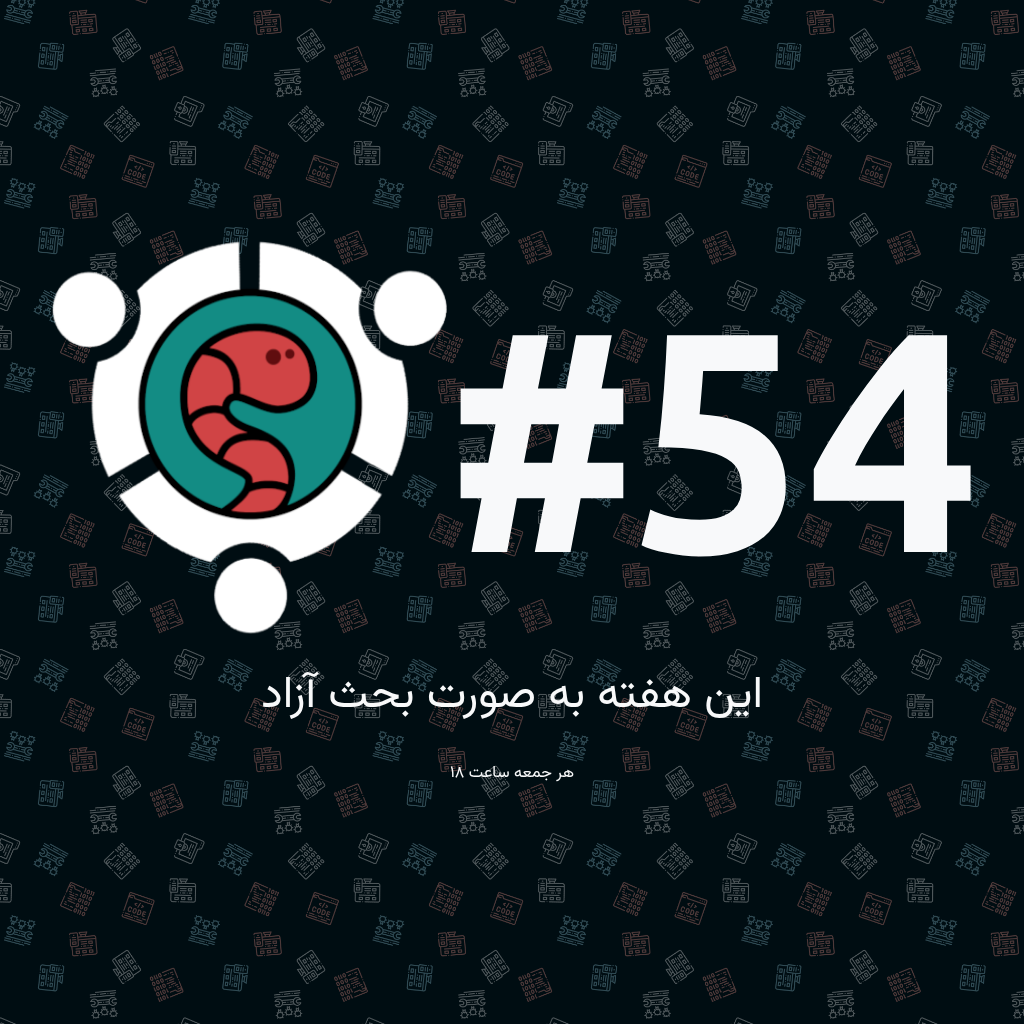
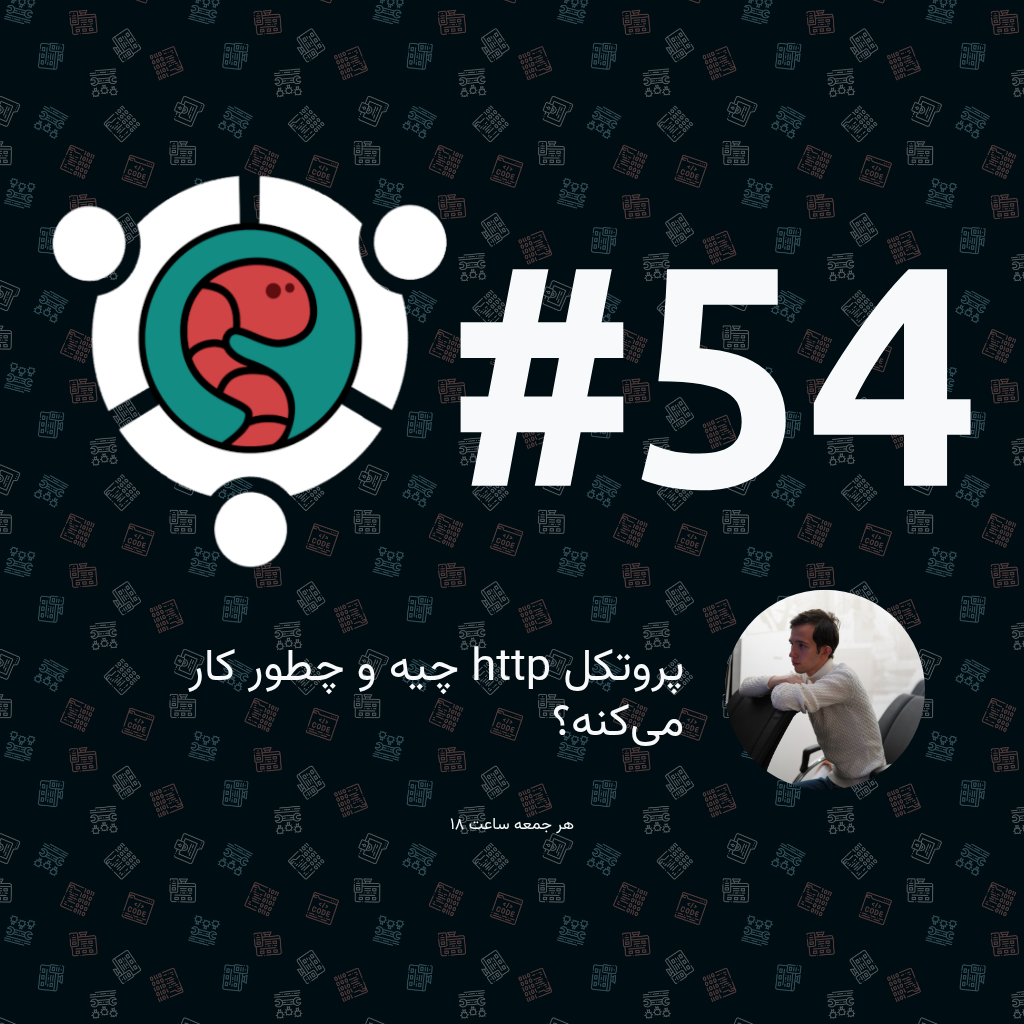
deploy: a97898a739affa97574a50bf344376ca0248254a

Changed region(s): [[0.0312, 0.1562, 0.9688, 0.7812], [0.4375, 0.75, 0.5625, 0.8125]]

diff --git a/54/index.html b/54/index.html
@@ -4,8 +4,8 @@
 <head>
     <meta charset="UTF-8">
     <meta name="viewport" content="width=device-width, initial-scale=1.0">
-        <meta property="og:title" content="دورهمی #54 کرمهای کامپیوتر" />
-            <meta name="og:description" content="دورهمی #54 کرمهای کامپیوتر جمعه ساعت ۱۸ "/>
+        <meta property="og:title" content="دورهمی #54 کرمهای کامپیوتر - پروتکل http چیه و چطور کار میکنه؟" />
+            <meta name="og:description" content="دورهمی #54 کرمهای کامپیوتر جمعه ساعت ۱۸  دربارهٔ پروتکل http چیه و چطور کار میکنه؟ گفتوگوی میرسبحان"/>
     <meta property="og:url" content="https://meet.pcworms.ir" />
     <meta property="og:image" content="./preview.png" />
     <title>دورهمیهای کرمهای کامپیوتر</title>
@@ -91,9 +91,19 @@
                 <small>هر جمعه ساعت ۱۸</small>
             </div>
         </div>
-            <div class="row justify-content-center text-center">
-                <div class="text-center">
-                    <small id="counter"></small>
+        <div class="row justify-content-center">
+            <div class="col-12 col-sm-10 col-md-8 p-2 subject-bg">
+                <div class=" row align-items-center">
+                    <div class="col-auto float-start text-center"><img src="assets&#x2F;avatars&#x2F;mirsobhan.jpg" class="profile"></div>
+                    <div class="col">
+                        <small class="speaker d-block">
+                            میرسبحان:
+                        </small>
+                        <h2 class="subject">پروتکل http چیه و چطور کار میکنه؟</h2>
+                        <div class="text-center">
+                            <small class="time" id="counter"></small>
+                        </div>
+                    </div>
                 </div>
             </div>
             <div class="text-center">

diff --git a/index.html b/index.html
@@ -4,8 +4,8 @@
 <head>
     <meta charset="UTF-8">
     <meta name="viewport" content="width=device-width, initial-scale=1.0">
-        <meta property="og:title" content="دورهمی #54 کرمهای کامپیوتر" />
-            <meta name="og:description" content="دورهمی #54 کرمهای کامپیوتر جمعه ساعت ۱۸ "/>
+        <meta property="og:title" content="دورهمی #54 کرمهای کامپیوتر - پروتکل http چیه و چطور کار میکنه؟" />
+            <meta name="og:description" content="دورهمی #54 کرمهای کامپیوتر جمعه ساعت ۱۸  دربارهٔ پروتکل http چیه و چطور کار میکنه؟ گفتوگوی میرسبحان"/>
     <meta property="og:url" content="https://meet.pcworms.ir" />
     <meta property="og:image" content="./preview.png" />
     <title>دورهمیهای کرمهای کامپیوتر</title>
@@ -91,9 +91,19 @@
                 <small>هر جمعه ساعت ۱۸</small>
             </div>
         </div>
-            <div class="row justify-content-center text-center">
-                <div class="text-center">
-                    <small id="counter"></small>
+        <div class="row justify-content-center">
+            <div class="col-12 col-sm-10 col-md-8 p-2 subject-bg">
+                <div class=" row align-items-center">
+                    <div class="col-auto float-start text-center"><img src="assets&#x2F;avatars&#x2F;mirsobhan.jpg" class="profile"></div>
+                    <div class="col">
+                        <small class="speaker d-block">
+                            میرسبحان:
+                        </small>
+                        <h2 class="subject">پروتکل http چیه و چطور کار میکنه؟</h2>
+                        <div class="text-center">
+                            <small class="time" id="counter"></small>
+                        </div>
+                    </div>
                 </div>
             </div>
             <div class="text-center">

diff --git a/54/preview.html b/54/preview.html
@@ -25,9 +25,12 @@
             </div>
         </div>
         <div class="row justify-content-center">
-                <div class="col-12 p-2 text-center">
-                    <h2 class="subject" dir="rtl">این هفته به صورت بحث آزاد</h2>
-                </div>
+                <div class="col-12 col-md-10 p-2"">
+                    <div class=" row align-items-center">
+                    <div class="col">
+                        <h2 class="subject" dir="rtl">پروتکل http چیه و چطور کار میکنه؟</h2>
+                    </div>
+                    <div class="col-auto float-start text-center"><img src="assets&#x2F;avatars&#x2F;mirsobhan.jpg" class="profile"></div>
         </div>
         <div class="row justify-content-center">
             <div class="col-12 p-2 text-center">

diff --git a/preview.html b/preview.html
@@ -25,9 +25,12 @@
             </div>
         </div>
         <div class="row justify-content-center">
-                <div class="col-12 p-2 text-center">
-                    <h2 class="subject" dir="rtl">این هفته به صورت بحث آزاد</h2>
-                </div>
+                <div class="col-12 col-md-10 p-2"">
+                    <div class=" row align-items-center">
+                    <div class="col">
+                        <h2 class="subject" dir="rtl">پروتکل http چیه و چطور کار میکنه؟</h2>
+                    </div>
+                    <div class="col-auto float-start text-center"><img src="assets&#x2F;avatars&#x2F;mirsobhan.jpg" class="profile"></div>
         </div>
         <div class="row justify-content-center">
             <div class="col-12 p-2 text-center">
